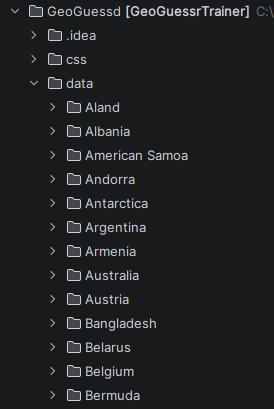
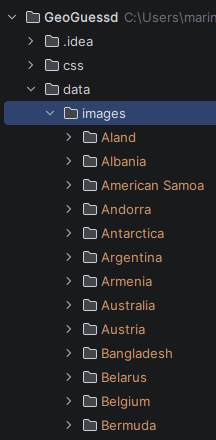
map progress

Changed region(s): [[0.0, 0.0, 1.0, 0.9976]]

diff --git a/js/index.js b/js/index.js
@@ -1,0 +1,160 @@
+// vars
+let mapId = "map";
+let mapContainer = document.getElementById("map-container");
+let mapSVGElement = null;
+let minImgCount = 0, maxImgCount = 0, avgImgCount = 0;
+
+// call funcs
+createMap();
+createBarGraph();
+
+/**
+ * Create map on homepage.
+ */
+async function createMap() {
+  await loadData();
+  calcImgMaxMin();
+
+  // append svg
+  let w = mapContainer.offsetWidth;
+  let h = mapContainer.offsetHeight;
+
+  let svg = d3.select("#map-container")
+    .append("svg")
+    .attr("width", w)
+    .attr("height", h)
+    .attr("viewBox", "0 0 " + w + " " + h)
+    .attr("preserveAspectRatio", "xMidYMid meet")
+    .attr("id", "map");
+  mapSVGElement = document.getElementById("map");
+
+  // set up an observer
+  let observer = new ResizeObserver(entries => {
+    let e = entries[0];
+    mapSVGElement.setAttribute("width", e.contentRect.width);
+    mapSVGElement.setAttribute("height", e.contentRect.height);
+  })
+
+  observer.observe(mapContainer)
+
+  // draw labels
+  let dispGrp = svg.append("g").attr("id", "disp-grp");
+  dispGrp.append("text")
+    .attr("x", 65)
+    .attr("y", 500)
+    .text("Country: x entries")
+    .style("text-anchor", "start")
+    .style("font-size", 20)
+    .style("fill", "#000000")
+    .attr("id", "disp-grp-txt");
+  dispGrp.append("rect")
+    .attr("x", 50)
+    .attr("y", 469)
+    .attr("fill", "none")
+    .attr("width", 200)
+    .attr("height", 50)
+    .attr("stroke", "red")
+    .attr("stroke-width", "10px")
+    .attr("rx", "5px")
+    .attr("id", "disp-grp-border");
+
+  // draw map
+  let colorScheme = d3.schemePurples[6];
+  let binSize = avgImgCount/5;
+  let domain = [binSize.toFixed(0), (2*binSize).toFixed(0), (3*binSize).toFixed(0), (4*binSize).toFixed(0), (maxImgCount-1).toFixed(0)];
+  let colorScale = d3.scaleThreshold()
+    .domain(domain)
+    .range(colorScheme);
+
+  let projection = d3.geoNaturalEarth1() // map + projection
+    .scale(w / 1.8 / Math.PI)
+    .translate([w / 2, h / 2])
+
+  d3.json("../data/world.geojson").then(function (data) {
+    svg.append("g").attr("id", "path-grp")
+      .selectAll("path")
+      .data(data.features)
+      .join("path")
+      .attr("fill", (d) => {
+        if (!imgsMap.has(d.properties.name)) {
+          return "var(--no-data-gray)"
+        }
+        return colorScale(imgsMap.get(d.properties.name).length);
+      })
+      .attr("d", d3.geoPath()
+        .projection(projection)
+      )
+      .style("stroke", "#fff")
+      .style("stroke-width", "0.5px")
+      .attr("class", "country-path")
+      .on("mouseover", function (e, d) {
+        if (imgsMap.has(d.properties.name)) {
+          d3.select("#disp-grp-txt").text(d.properties.name + " - " + imgsMap.get(d.properties.name).length);
+          d3.select("#disp-grp").style("display", "block");
+          d3.select("#disp-grp-border").attr("width", document.getElementById("disp-grp-txt").getBBox().width + 30);
+        }
+      })
+      .on("mouseout", function () {
+        d3.select("#disp-grp")
+          .style("display", "none");
+      })
+      .on("click", function (e, d) {
+        window.location.href="../pages/gallery.html?country=" + d.properties.name.replaceAll(" ", "%20");
+      })
+  })
+
+  // draw scale
+  let scaleTxtGrp = svg.append("g");
+  scaleTxtGrp.selectAll("text").data(domain).enter().append("text")
+    .attr("x", function(d, i) {
+      return 100 + (i * 50);
+    })
+    .attr("y", 620)
+    .text(d => d)
+    .style("text-anchor", "middle")
+    .style("font-size", 8)
+    .style("fill", "#000000")
+  scaleTxtGrp.append("text")
+    .attr("x", 50)
+    .attr("y", 620)
+    .text(minImgCount)
+    .style("text-anchor", "middle")
+    .style("font-size", 8)
+    .style("fill", "#000000")
+
+  svg.append("g").selectAll("rect").data(domain).enter().append("rect")
+    .attr("x", function(d, i) {
+      return 50 + (i * 50);
+    })
+    .attr("y", 600)
+    .attr("width", 50)
+    .attr("height", "10")
+    .attr("fill", function(d, i) {
+      return colorScale(d-1);
+    });
+}
+
+/**
+ * Helper function to calculate some stats about the dataset.
+ */
+function calcImgMaxMin() {
+  maxImgCount = -1;
+  minImgCount = Number.MAX_SAFE_INTEGER;
+  for (let x = 0; x < dataset.length; x++) {
+    let currEntries = dataset[x].num_entries;
+    avgImgCount += currEntries;
+    if (currEntries > maxImgCount) {
+      maxImgCount = currEntries;
+    }
+    if (currEntries < minImgCount) {
+      minImgCount = currEntries;
+    }
+  }
+  avgImgCount /= dataset.length;
+}
+/**
+ * Create bar graph.
+ */
+function createBarGraph() {
+
+}

diff --git a/pages/gallery.html b/pages/gallery.html
@@ -54,7 +54,7 @@
 <h1 id="gallery-country">Country</h1>
 <div id="img-viewer-container">
   <div id="prev"><img id="prev-icon" class="switch-arrow" src="../img/ui/next-arrow.png" alt="View previous image"/></div>
-  <div id="img-viewer"><img id="curr-img" src="../data/Aland/canvas_1629480180.jpg" alt="img"/></div>
+  <div id="img-viewer"><img id="curr-img" src="../data/images/Aland/canvas_1629480180.jpg" alt="img"/></div>
   <div id="next"><img id="next-icon" class="switch-arrow" src="../img/ui/next-arrow.png" alt="View next image"/></div>
 </div>
 
@@ -63,7 +63,7 @@
 </div>
 </div>
 
-<script src="../js/d3.js"></script>
+<script src="../js/d3/d3.js"></script>
 <script src="../js/app.js"></script>
 <script src="../js/gallery.js"></script>
 </body>

diff --git a/index.html b/index.html
@@ -45,11 +45,11 @@
 </header>
 
 <div class="nav-shift">
-<div id="map"></div>
+<div id="map-container"></div>
 </div>
 
-<script src="js/d3.js"></script>
+<script src="js/d3/d3.js"></script>
 <script src="js/app.js"></script>
-<script src="js/map.js"></script>
+<script src="js/index.js"></script>
 </body>
 </html>

diff --git a/css/index.css b/css/index.css
@@ -1,7 +1,19 @@
 /* map */
-#map {
-  background: white;
+#map-container {
   width: 80%;
   margin: auto;
-  height: 40rem;
+  height: 40vw;
+}
+
+#map-container svg {
+  background: white;
+}
+
+
+#map path:hover {
+  fill: red;
+}
+
+#disp-grp{
+  display: none;
 }

diff --git a/js/app.js b/js/app.js
@@ -1,6 +1,6 @@
 // global vars
 let dataInfoPath = "/../data/data-info.json";
-let imgsPath = "/../data/";
+let imgsPath = "/../data/images/";
 let dataset = null;
 let imgsMap = new Map();
 

diff --git a/pages/trainer.html b/pages/trainer.html
@@ -47,7 +47,7 @@
 
 </div>
 
-<script src="../js/d3.js"></script>
+<script src="../js/d3/d3.js"></script>
 <script src="../js/app.js"></script>
 </body>
 </html>

diff --git a/css/style.css b/css/style.css
@@ -2,6 +2,7 @@
 :root {
   --purp: #171235;
   --dark-purp: rgb(16 16 28/100%);
+  --no-data-gray: #cfcfcf;
 }
 
 /* general styles */

diff --git a/README.md b/README.md
@@ -9,11 +9,11 @@ TODO
 ### 2. Download the data
 
 Since I felt it would have created too many dependencies to automate this step with Python
-you will have to manually download the dataset, unzip it, and place it in the `/data/` folder.
+you will have to manually download the dataset, unzip it, and place it in the `/data/images/` folder.
 The dataset can be downloaded as a `.zip` from
 [here](https://www.kaggle.com/datasets/ubitquitin/geolocation-geoguessr-images-50k?resource=download).
 Please make sure you have enough space to unzip it. Once you have unzipped it, move all the folders
-in `/archive/compressed_dataset/` to the `/data/` folder in the source code. The directory should look
+in `/archive/compressed_dataset/` to the `/data/images/` folder in the source code. The directory should look
 like this when you've done this:
 
 ![Source code structure.](img/readme/code_struct.PNG "Source code structure")
@@ -28,11 +28,16 @@ method is to use WAMP as this is what was used in development.
 this and I didn't think it would be wise to spend a long time figuring out how to deploy the app properly so
 instead I have written a bash script that does what Node.js or a database would have done and saves the info
 about the data to a `.json` file. Running it once whenever the data is updated is sufficient.
+- I omitted some regions () since the map didn't have information for them and it is beyond my capabilities
+and the scope of this project for me to add them myself.
+- Shifted scale of map TODO
 
 # Citations
 - Some assets taken from [GeoGuessr.com](https://www.geoguessr.com/)
 - [Futura PT Font Family](https://font.download/font/futura-pt)
 - [Favicon generator](https://realfavicongenerator.net/)
+- [Map tutorial](https://d3-graph-gallery.com/graph/backgroundmap_basic.html)
+- [world.geojson](https://raw.githubusercontent.com/holtzy/D3-graph-gallery/master/DATA/world.geojson)
 
 ## Icons
 - [Back arrow](https://www.flaticon.com/free-icon/back-arrow_3272525?related_id=3272680&origin=search)
